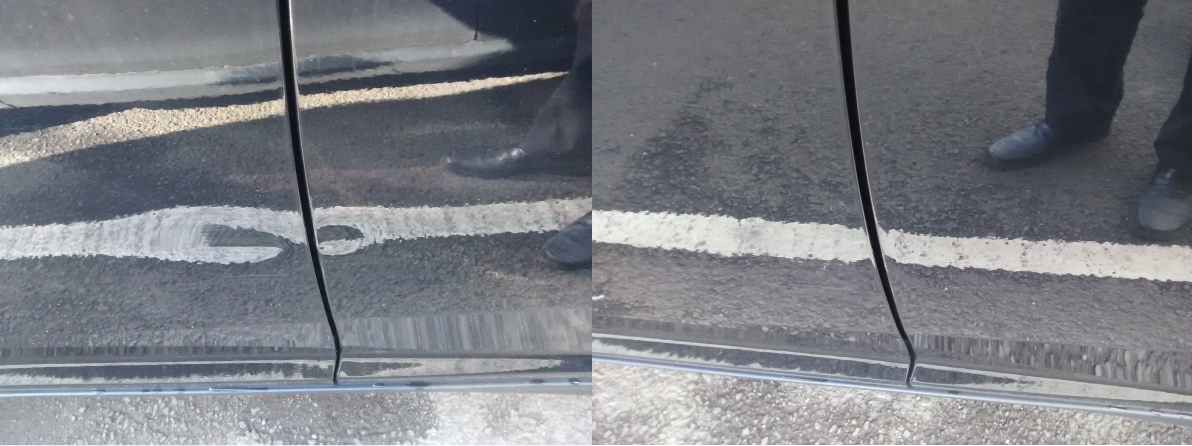
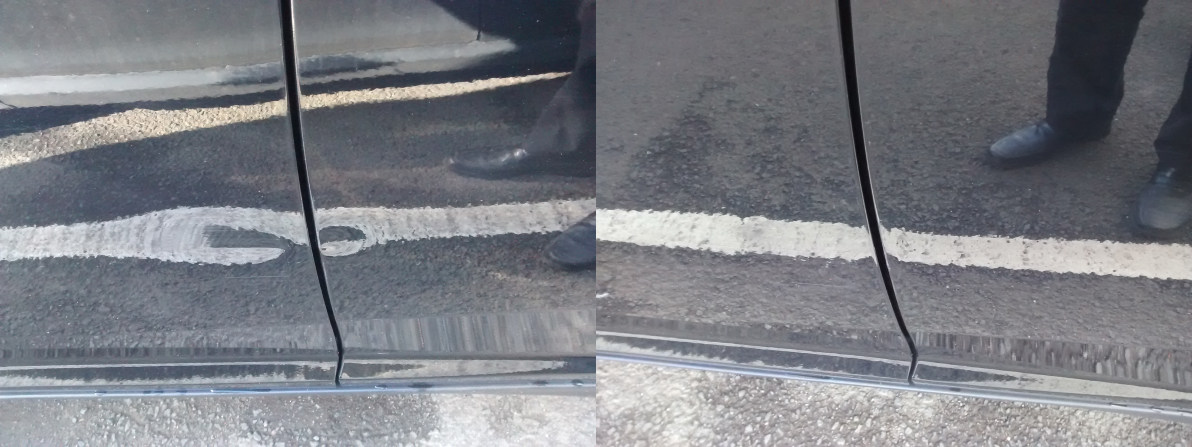
compressed images for large carousel

diff --git a/gallery.html b/gallery.html
@@ -32,22 +32,22 @@
                 <!-- Full-width images with number text -->
                 <div class="mySlides">
                   <div class="numbertext">1 / 5</div>
-                    <img src="images/final-images/Gallery/Blue/both before and after 1192px.jpg" style="width:100%">
+                    <img src="images/final-images/Gallery/Nissan/tinified/nissan both before and after 1192px.jpg" style="width:100%">
                 </div>
               
                 <div class="mySlides">
                   <div class="numbertext">2 / 5</div>
-                    <img src="images/final-images/Gallery/Black/black both before and after 1192px.jpg" style="width:100%">
+                    <img src="images/final-images/Gallery/Blue/tinified/blue both before and after 1192px.jpg" style="width:100%">
                 </div>
               
                 <div class="mySlides">
                   <div class="numbertext">3 / 5</div>
-                    <img src="images/final-images/Gallery/Nissan/nissan both before and after 1192px.jpg" style="width:100%">
+                    <img src="images/final-images/Gallery/Silver/silver both before and after 1192px.jpg" style="width:100%">
                 </div>
               
                 <div class="mySlides">
                   <div class="numbertext">4 / 5</div>
-                    <img src="images/final-images/Gallery/Silver/silver both before and after 1192px.jpg" style="width:100%">
+                    <img src="images/final-images/Gallery/Black/tinified/black both before and after 1192px.jpg" style="width:100%">
                 </div>
               
                 <div class="mySlides">

diff --git a/autobodycare.css b/autobodycare.css
@@ -659,6 +659,7 @@ a:active {
   .prev:hover,
   .next:hover {
     background-color: rgba(0, 0, 0, 0.8);
+    text-decoration: none;
   }
   
   /* Number text (1/3 etc) */
